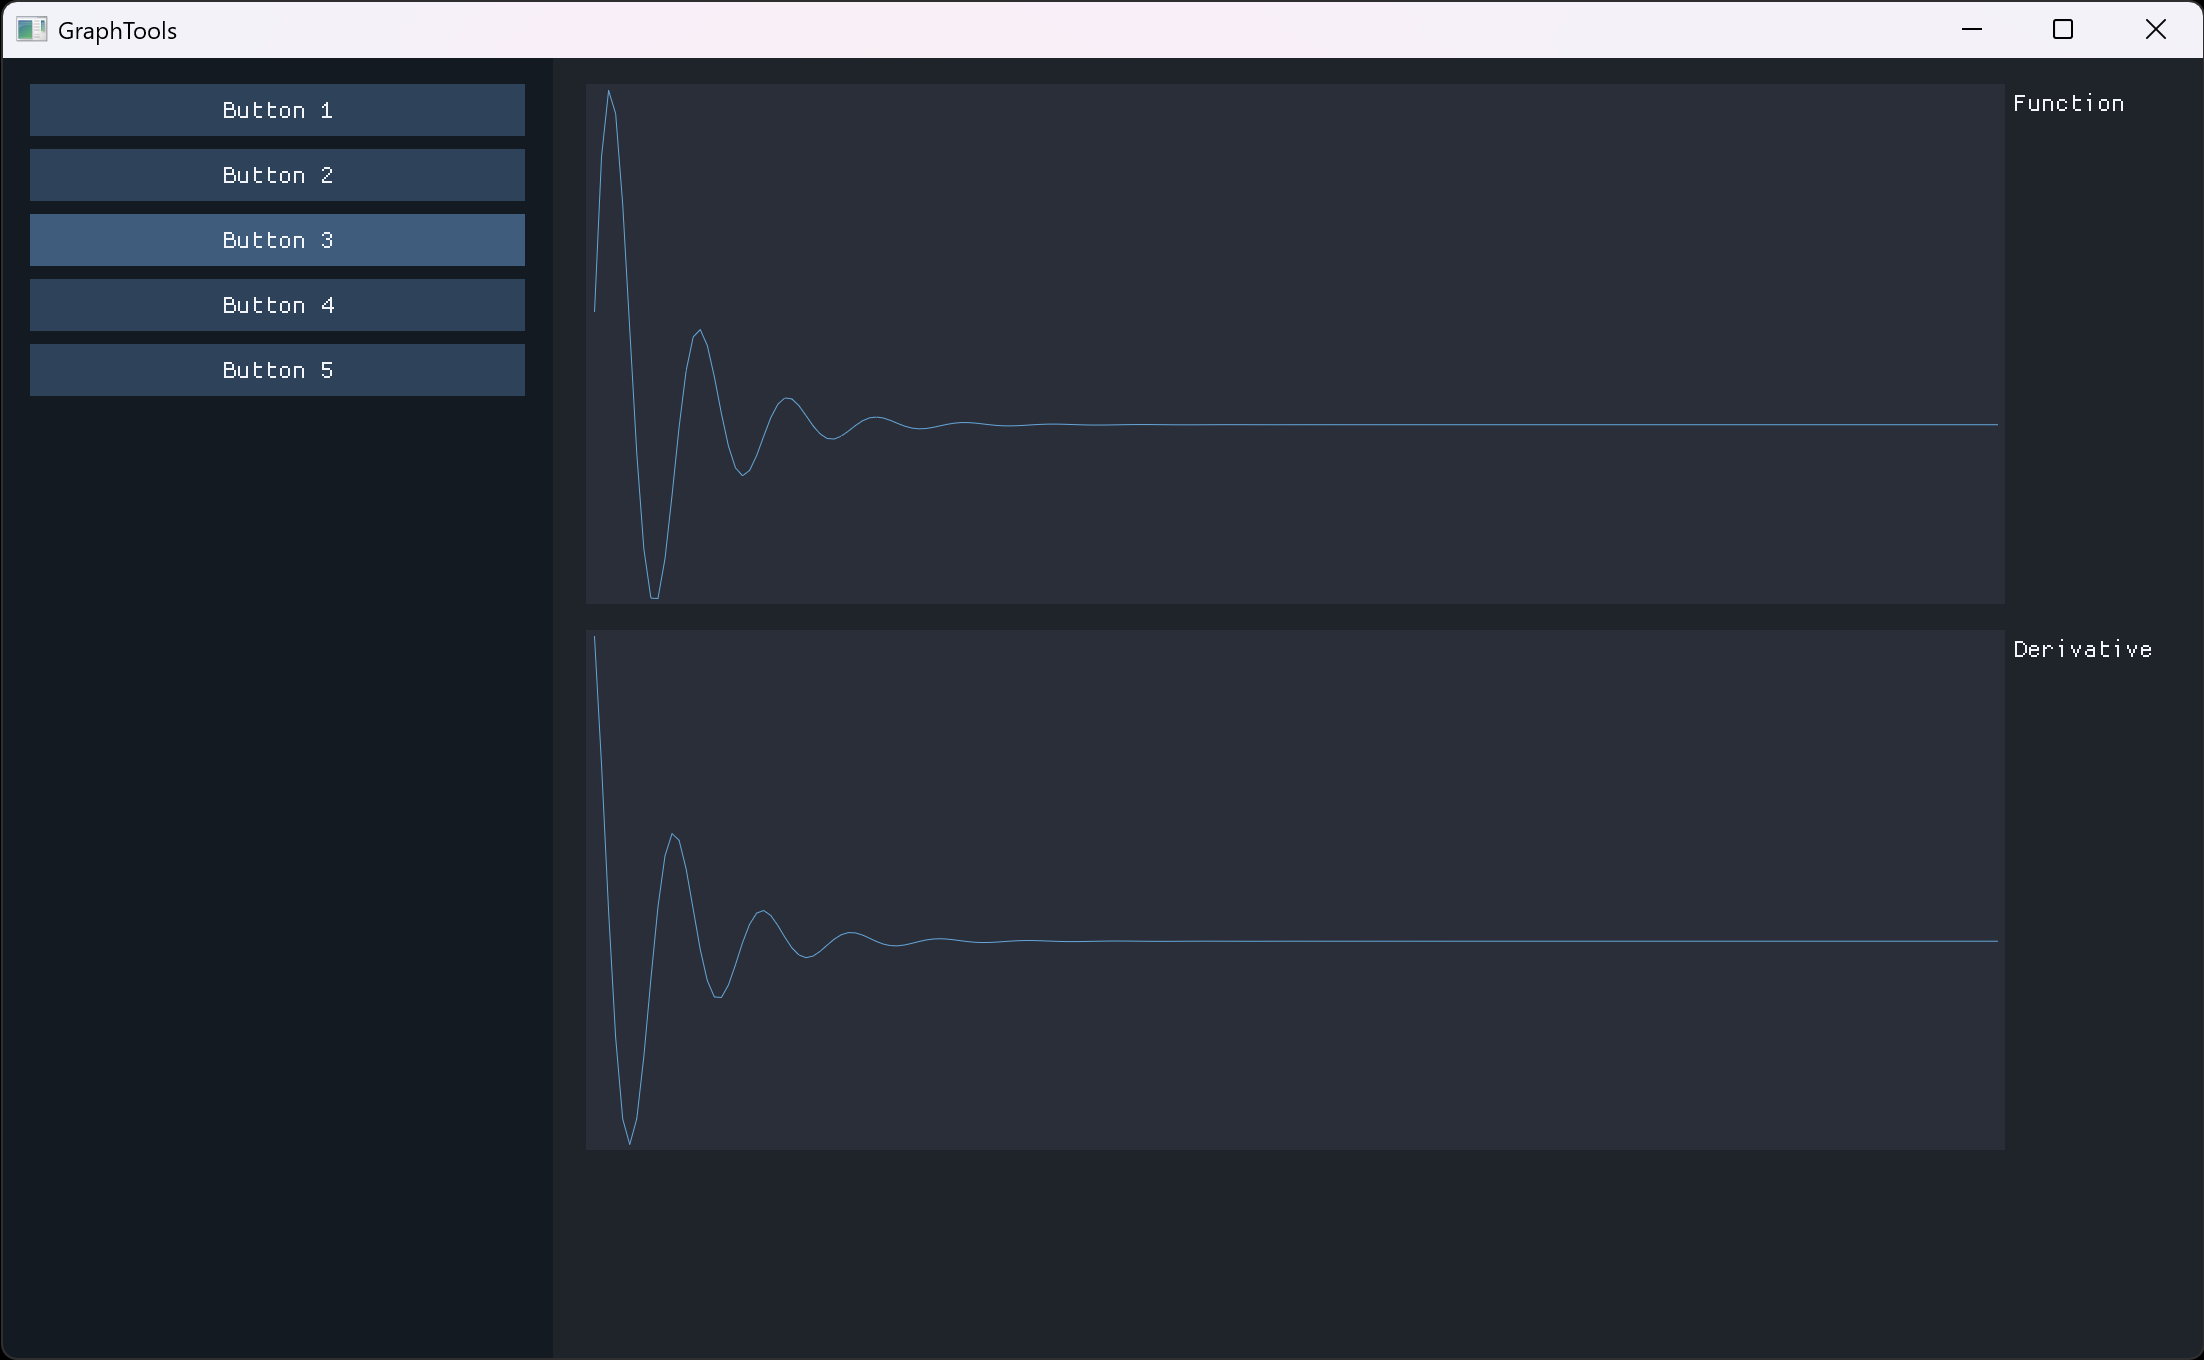
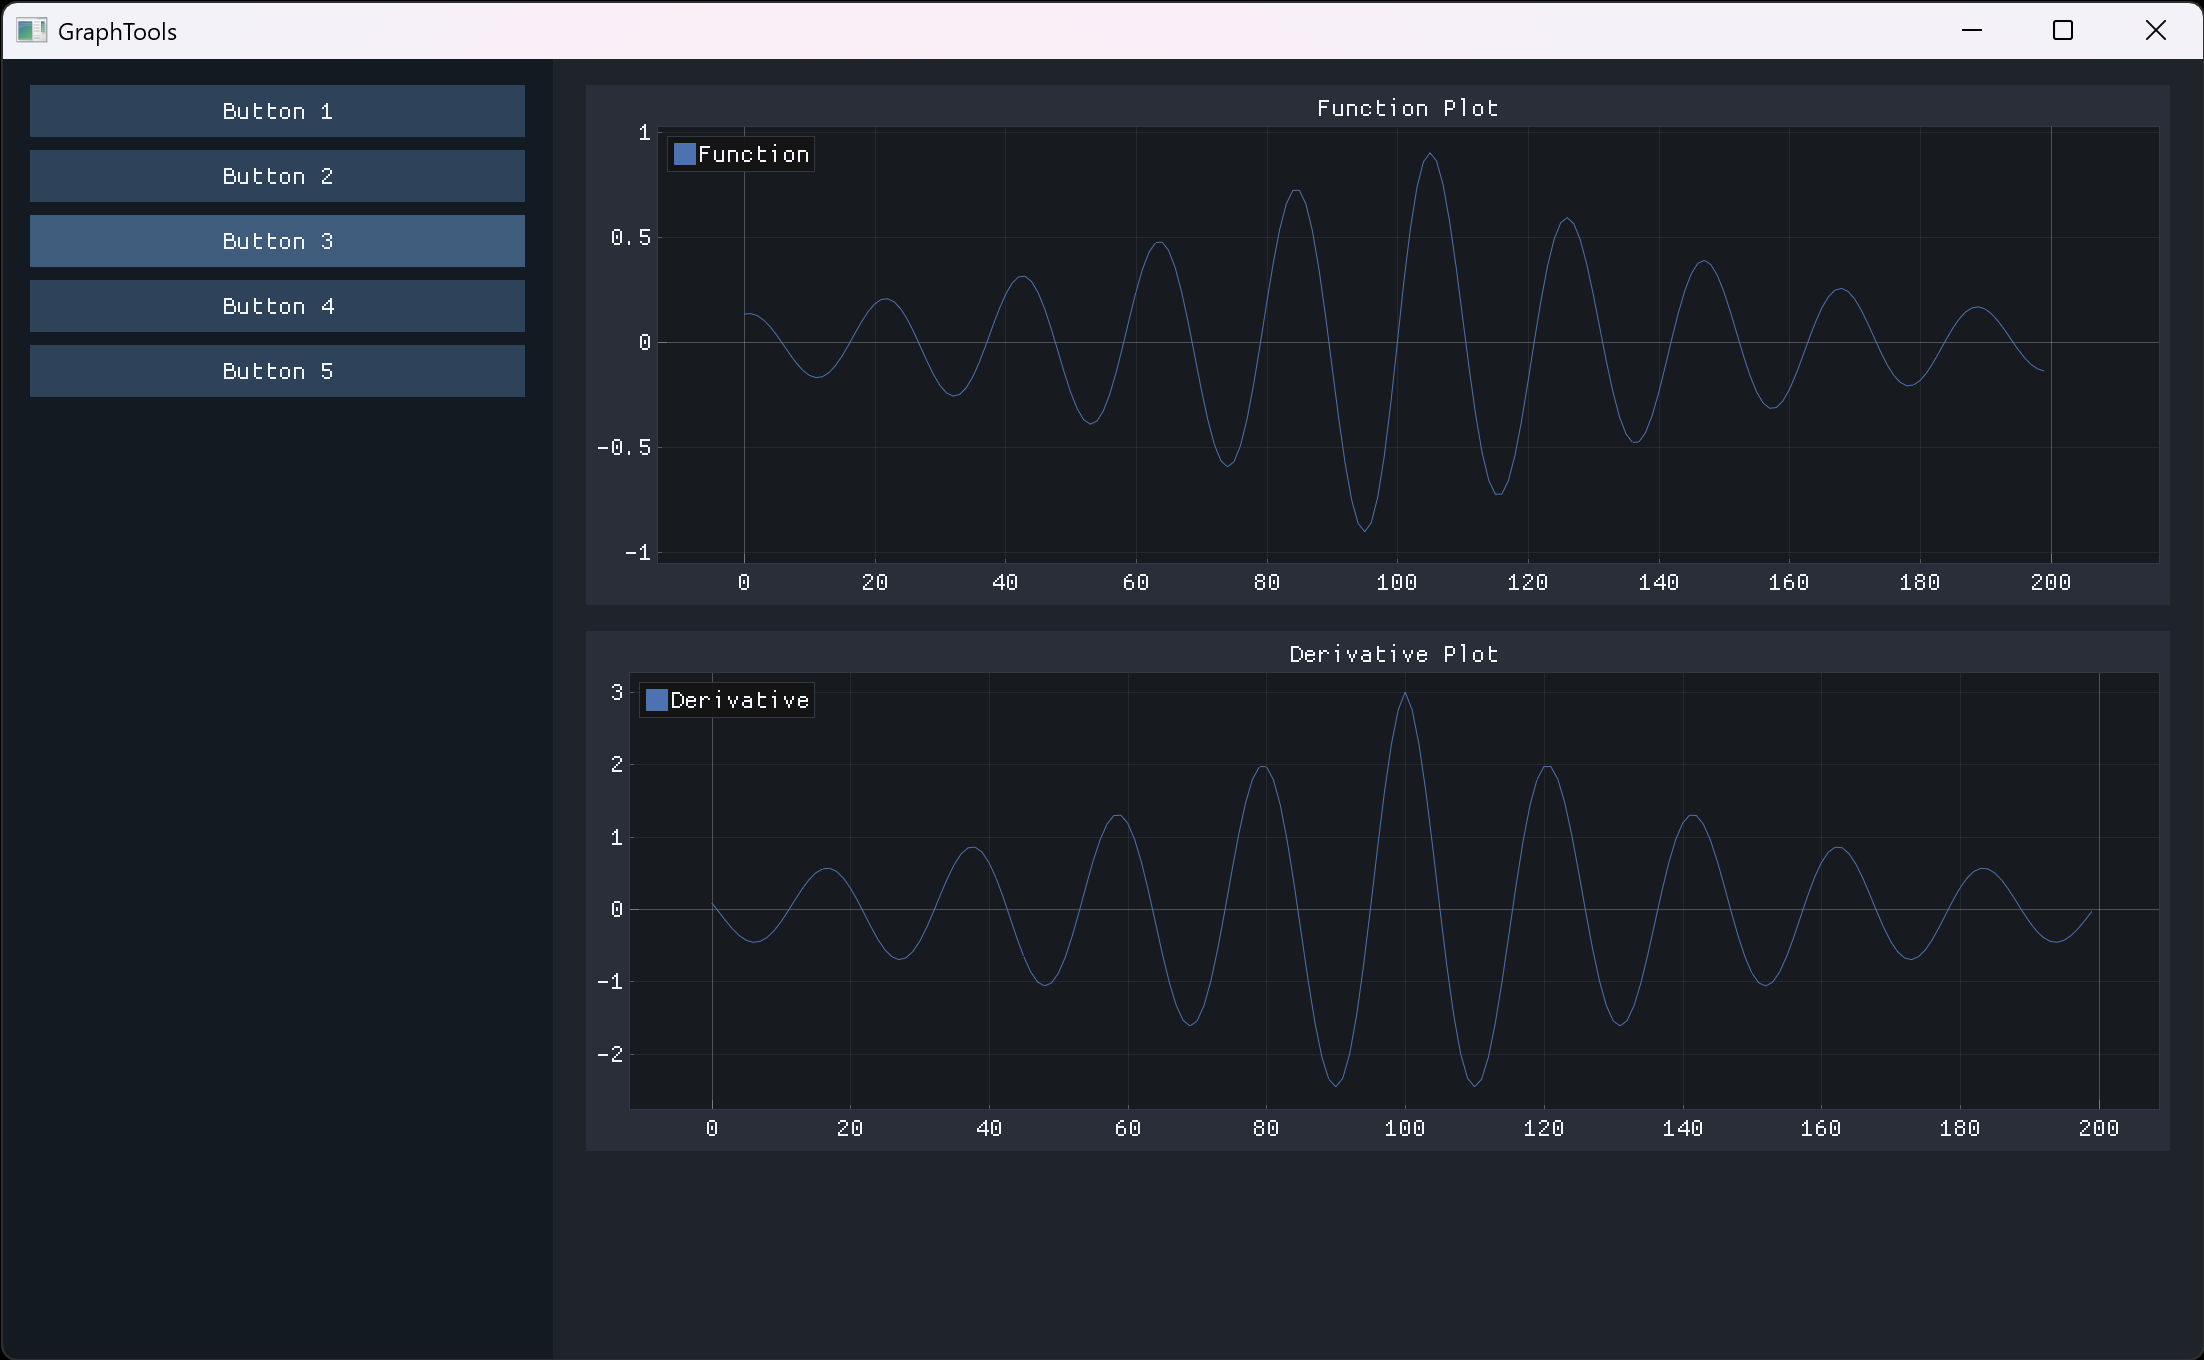
Update

diff --git a/src/main.cpp b/src/main.cpp
@@ -16,19 +16,19 @@ int main() {
 
     std::vector<float> v1, v2;
     for (float i = - 10; i <= 10; i += 0.1) {
-        v1.push_back(std::exp(-i) * std::sin(5 * i));
-        v2.push_back(std::exp(-i) * (5 * std::cos(5 * i) - std::sin(5 * i)));
+        v1.push_back(std::exp(-0.2f * std::abs(i)) * std::sin(3.0f * i));
+        v2.push_back(std::exp(-0.2f * std::abs(i)) * (3.0f * std::cos(3.0f * i) - 0.2f * (i > 0 ? 1.0f : -1.0f) * std::sin(3.0f * i)));
     }
 
     auto graphs = Create<PanelUnit>(Percent(75, 100), "Graphs");
     graphs->SetPos(Percent(25, 0));
 
-    auto function = Create<GraphUnit>(Percent(86, 40), "Function");
+    auto function = Create<GraphUnit>(Percent(96, 40), "Function");
     function->SetPos(Percent(2, 2));
     function->SetValues(std::move(v1));
     graphs->Push(std::move(function));
 
-    auto derivative = Create<GraphUnit>(Percent(86, 40), "Derivative");
+    auto derivative = Create<GraphUnit>(Percent(96, 40), "Derivative");
     derivative->SetPos(Percent(2, 44));
     derivative->SetValues(std::move(v2));
     graphs->Push(std::move(derivative));

diff --git a/src/window.cpp b/src/window.cpp
@@ -20,9 +20,10 @@ WindowUnit::WindowUnit(std::unique_ptr<IMeasureUnit> size, const std::string& ti
         isLoaded = true;
     }
 
-    m_context = ImGui::CreateContext();
+    m_gui = ImGui::CreateContext();
+    m_plot = ImPlot::CreateContext();
 
-    ImGui::SetCurrentContext(m_context);
+    ImGui::SetCurrentContext(m_gui);
 
     SetStyle();
     SetScale();
@@ -33,12 +34,13 @@ WindowUnit::WindowUnit(std::unique_ptr<IMeasureUnit> size, const std::string& ti
 
 WindowUnit::~WindowUnit() {
     glfwMakeContextCurrent(m_handle);
-    ImGui::SetCurrentContext(m_context);
+    ImGui::SetCurrentContext(m_gui);
 
     ImGui_ImplOpenGL3_Shutdown();
     ImGui_ImplGlfw_Shutdown();
 
-    ImGui::DestroyContext(m_context);
+    ImPlot::DestroyContext(m_plot);
+    ImGui::DestroyContext(m_gui);
     glfwDestroyWindow(m_handle);
 }
 

diff --git a/include/window.hpp b/include/window.hpp
@@ -14,7 +14,7 @@ public:
     void Render();
 
     GLFWwindow* GetHandle() const noexcept { return m_handle; }
-    ImGuiContext* GetContext() const noexcept { return m_context; }
+    ImGuiContext* GetContext() const noexcept { return m_gui; }
 
 private:
     void NewFrame();
@@ -23,7 +23,9 @@ private:
     void SetScale();
 
     GLFWwindow* m_handle;
-    ImGuiContext* m_context;
+
+    ImGuiContext* m_gui;
+    ImPlotContext* m_plot;
 
     VectorUnique<PanelUnit> m_units;
 };

diff --git a/src/panel.cpp b/src/panel.cpp
@@ -61,5 +61,8 @@ void GraphUnit::Render() {
     SetLayout();
 
     std::pair<float, float> size = m_size->GetMeasure();
-    ImGui::PlotLines(m_title.c_str(), m_values.data(), m_values.size(), 0, nullptr, FLT_MAX, FLT_MAX, ImVec2(size.first, size.second));
+
+    ImPlot::BeginPlot((m_title + " Plot").c_str(), ImVec2(size.first, size.second));
+    ImPlot::PlotLine(m_title.c_str(), m_values.data(), m_values.size());
+    ImPlot::EndPlot();
 }

diff --git a/include/panel.hpp b/include/panel.hpp
@@ -2,6 +2,8 @@
 
 #include "factory.hpp"
 
+#include <implot.h>
+
 #include <functional>
 #include <string>
 
